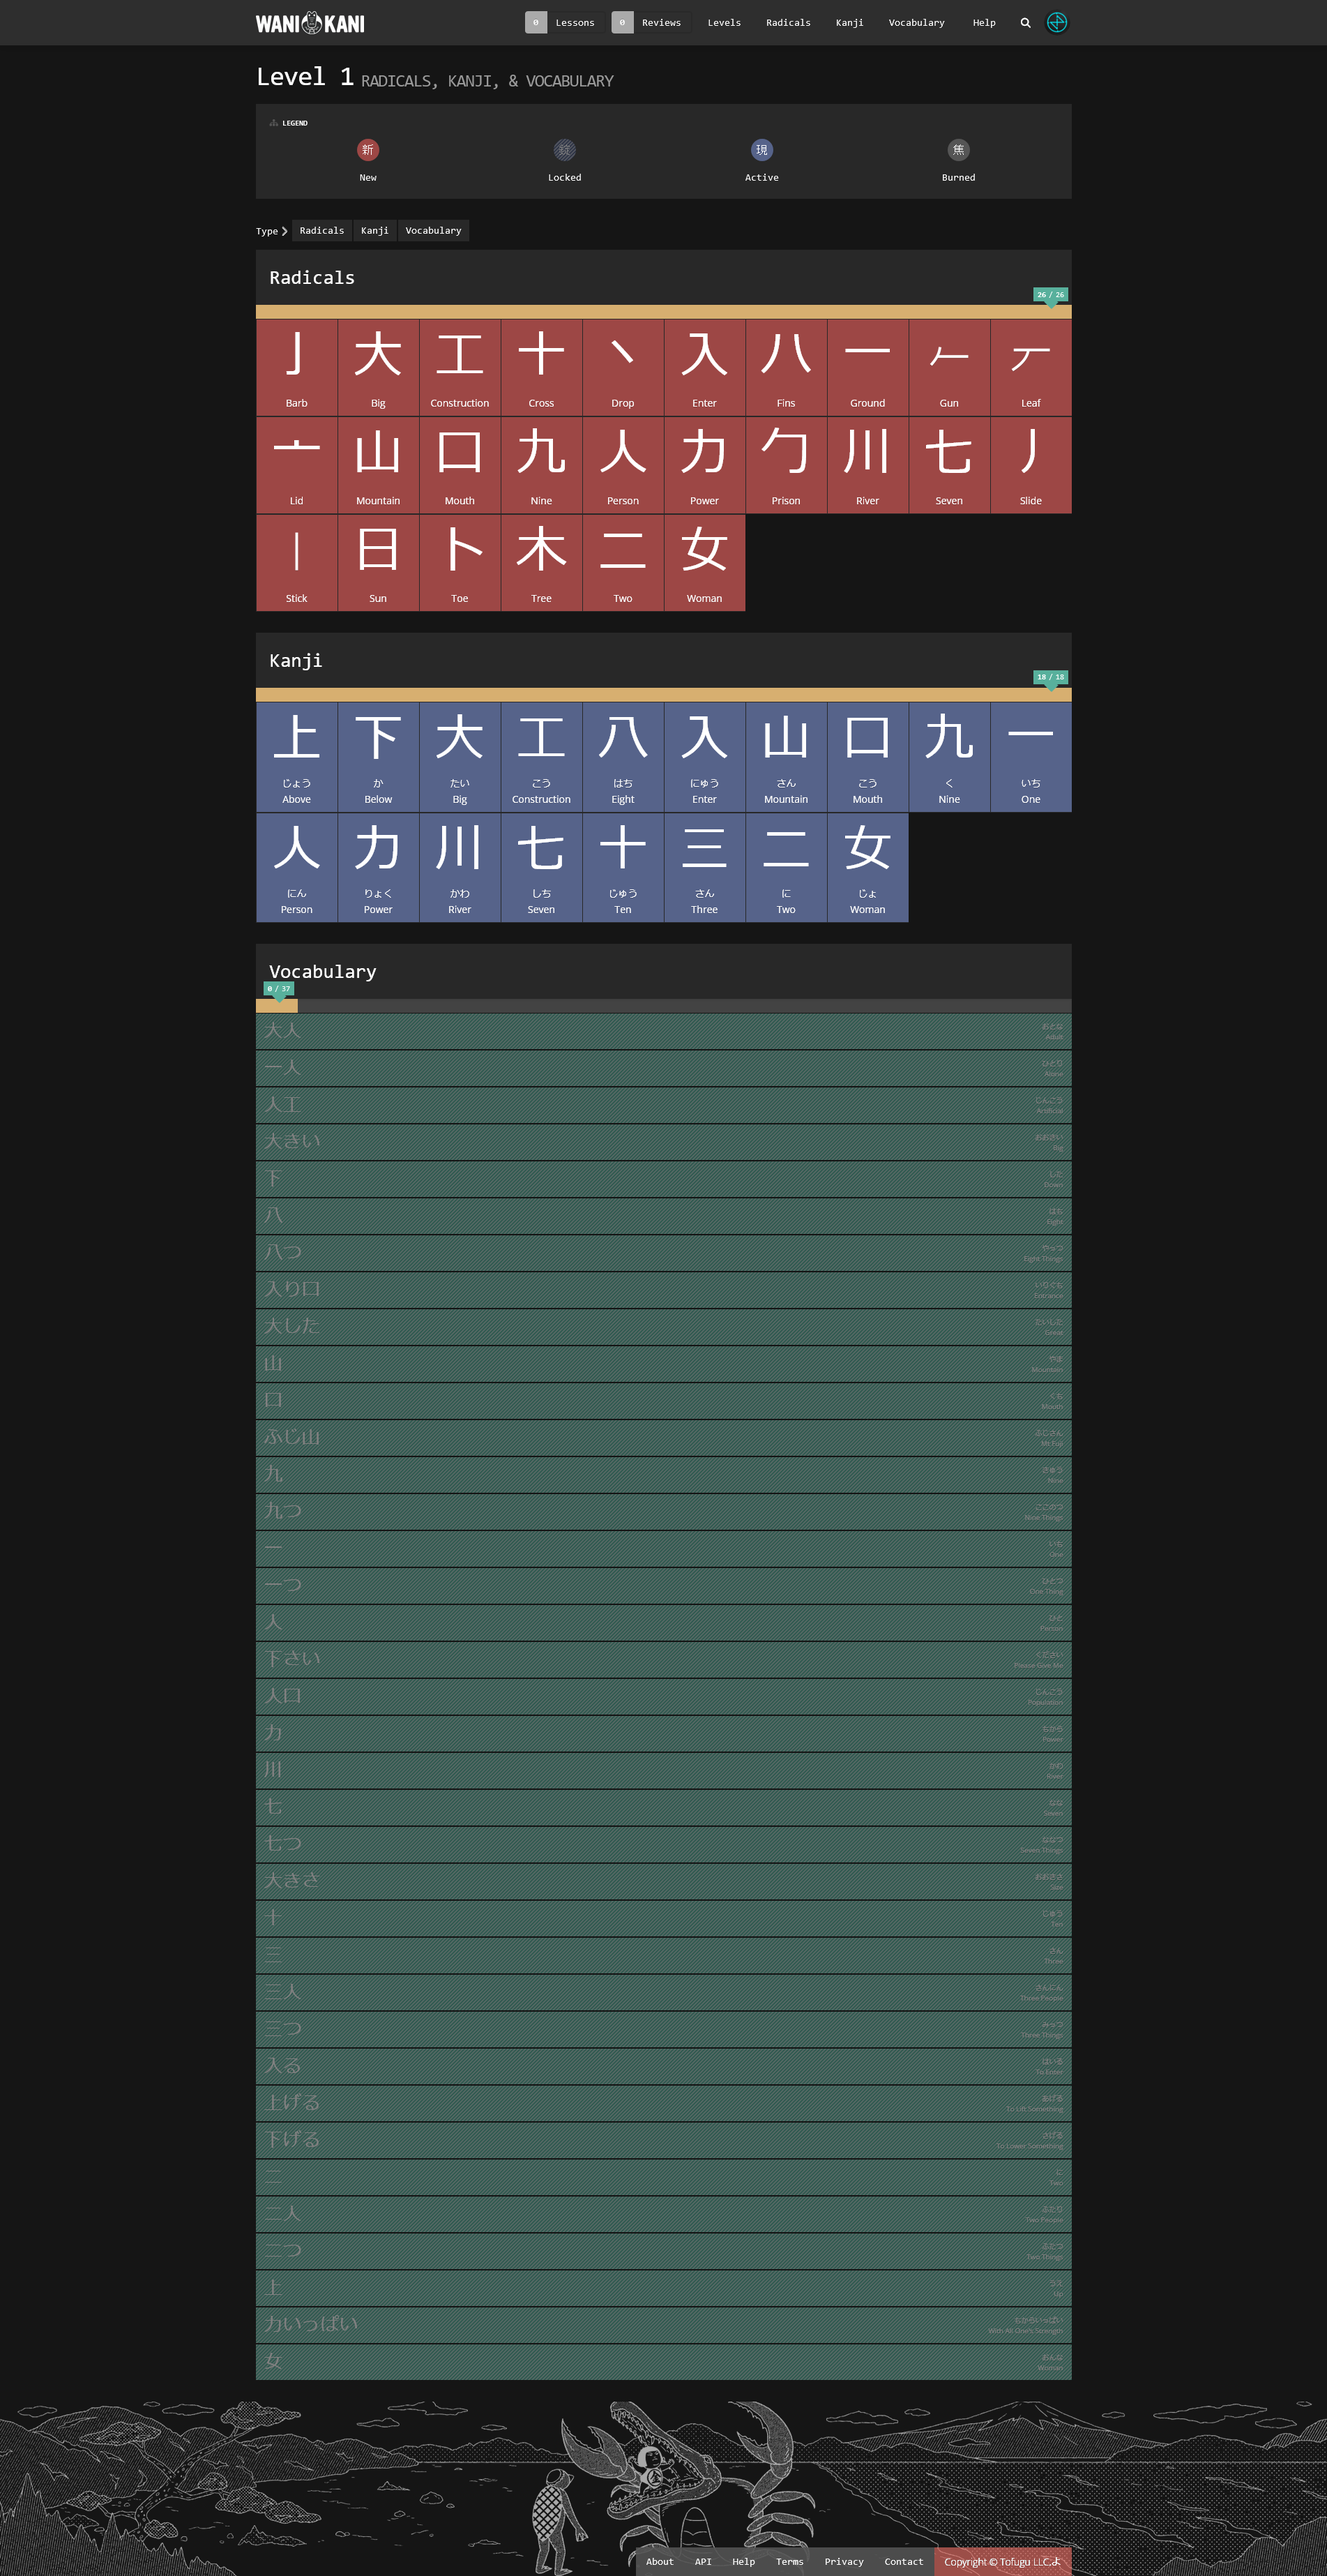
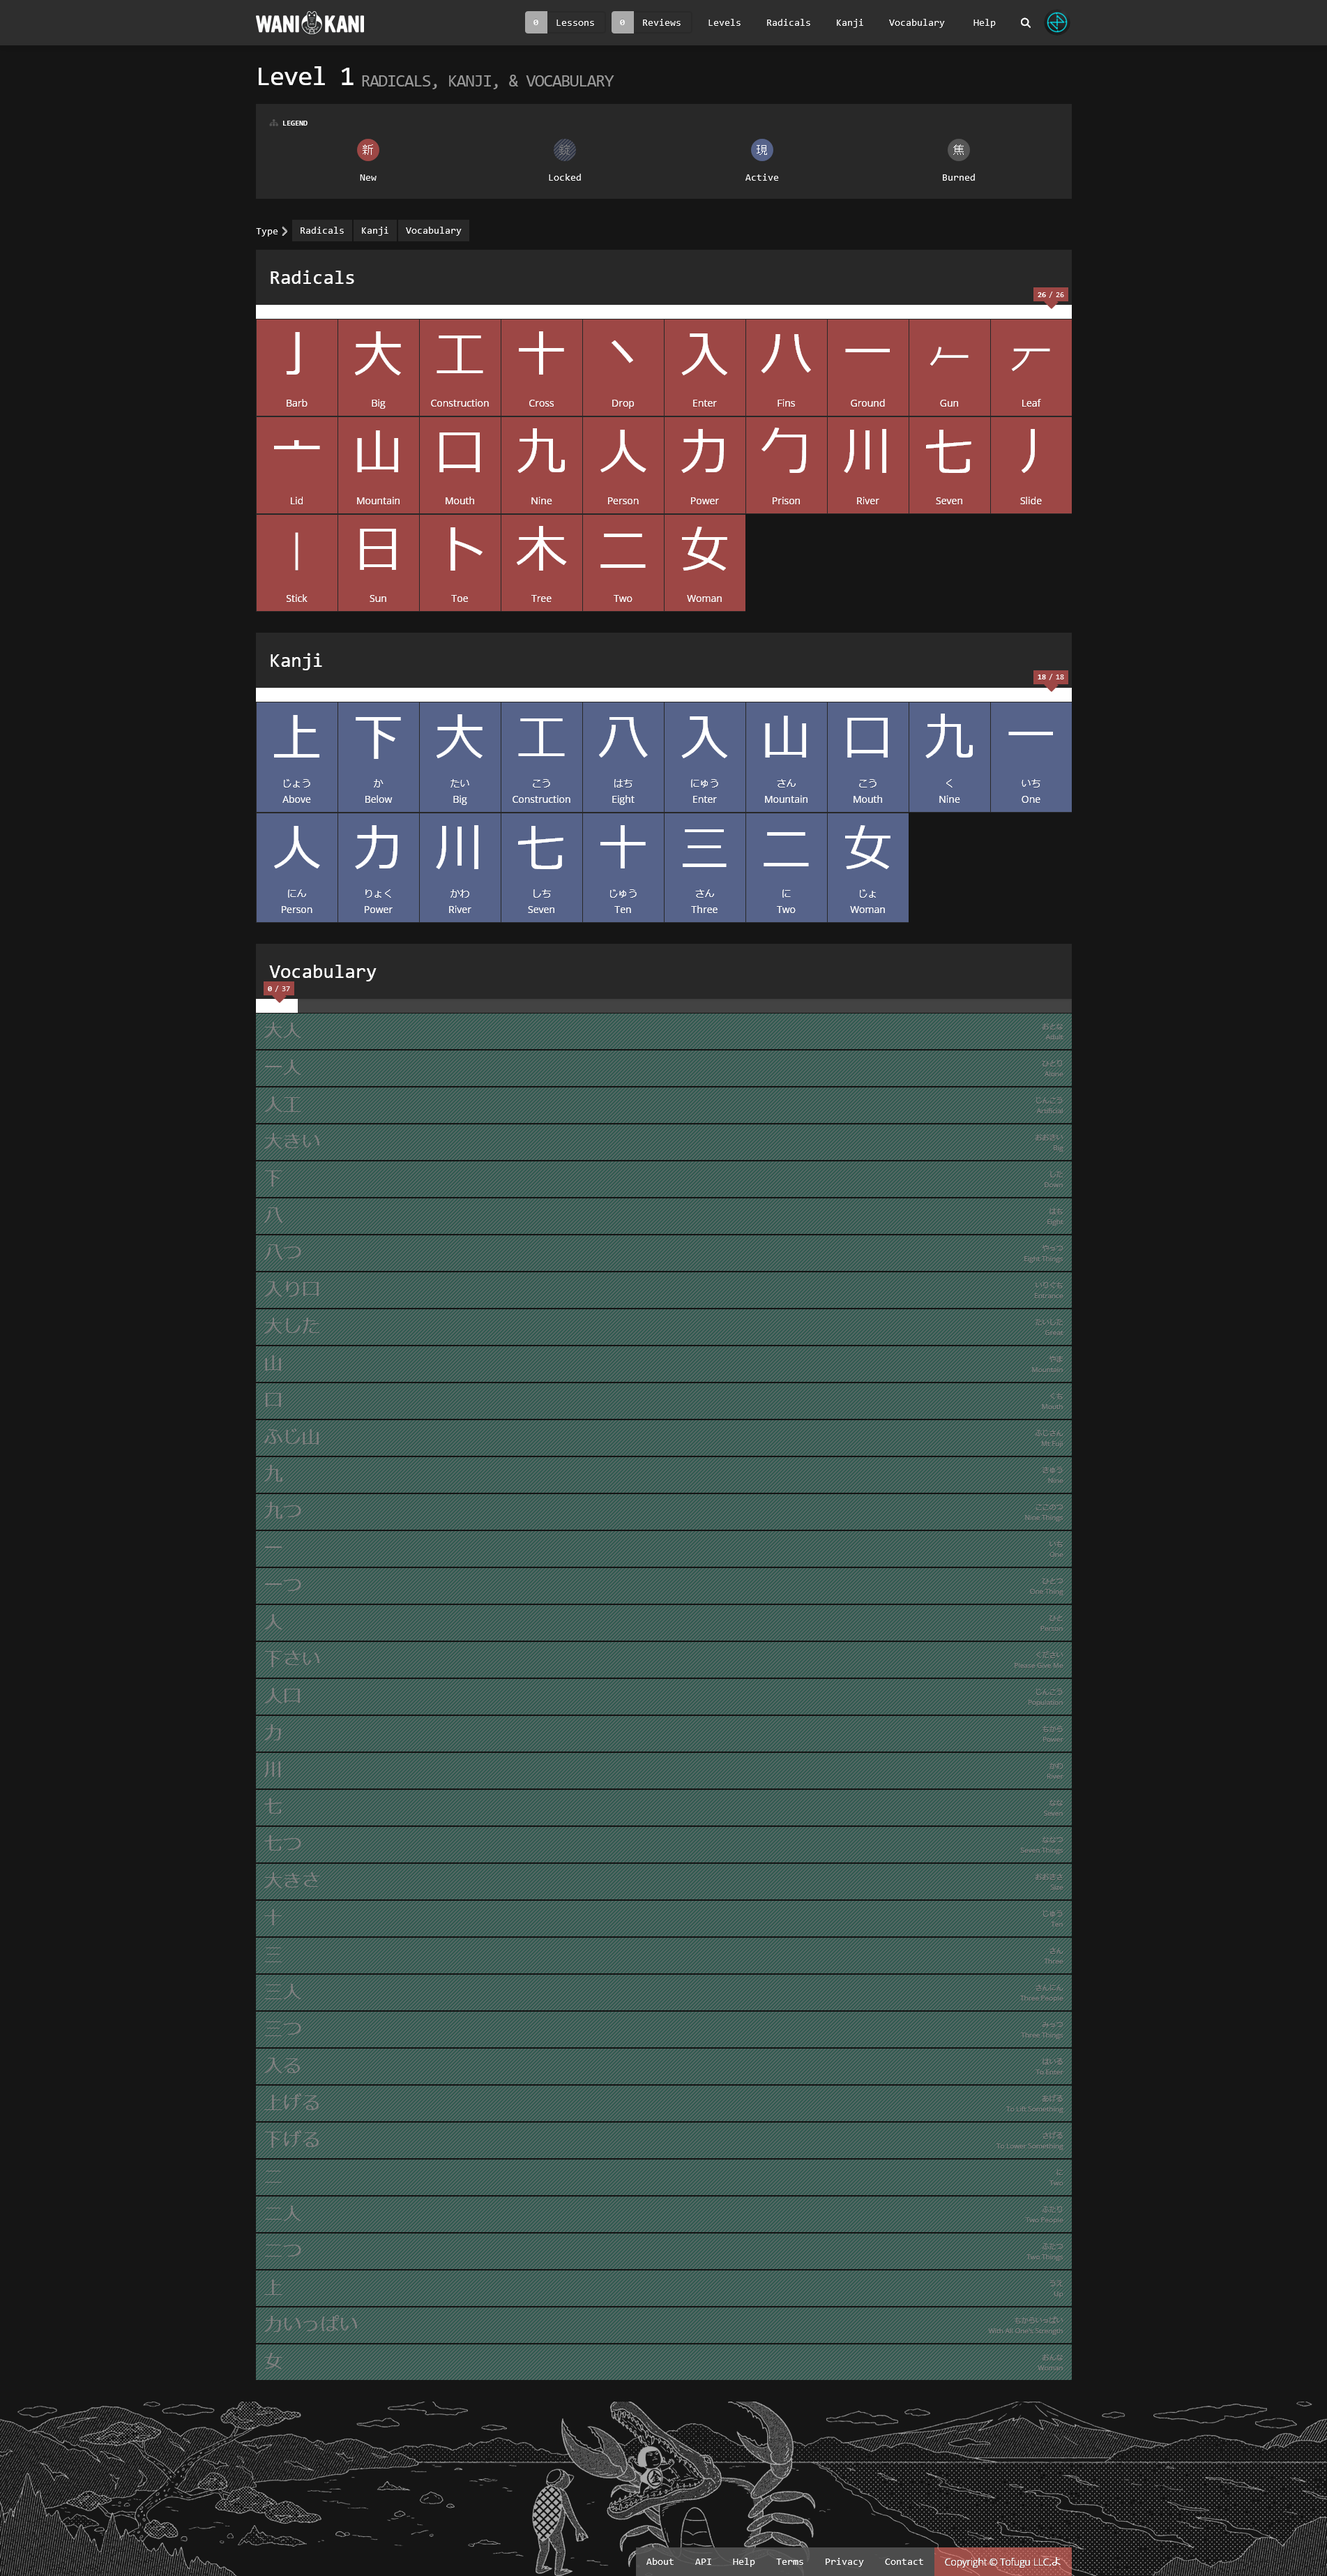
Changed .progress-bar__bar style

Changed region(s): [[0.186, 0.2491, 0.8061, 0.2803], [0.186, 0.0934, 0.8061, 0.1246], [0.186, 0.3737, 0.217, 0.4048]]

diff --git a/WKStygianRed.css b/WKStygianRed.css
@@ -599,13 +599,13 @@ section#related-items > .radical {
 }
 
 .progress-bar__bar {
-    background: #d7af70;
+    background: #fff;
 }
 
 .character-grid .progress-bar__label {
-    background-color: #58b09c;
+    background-color: #9d4745;
 }
 
 .progress-bar__label::after, .progress-bar__label::before {
-    border-top-color: #58b09c;
+    border-top-color: #9d4745;
 }
